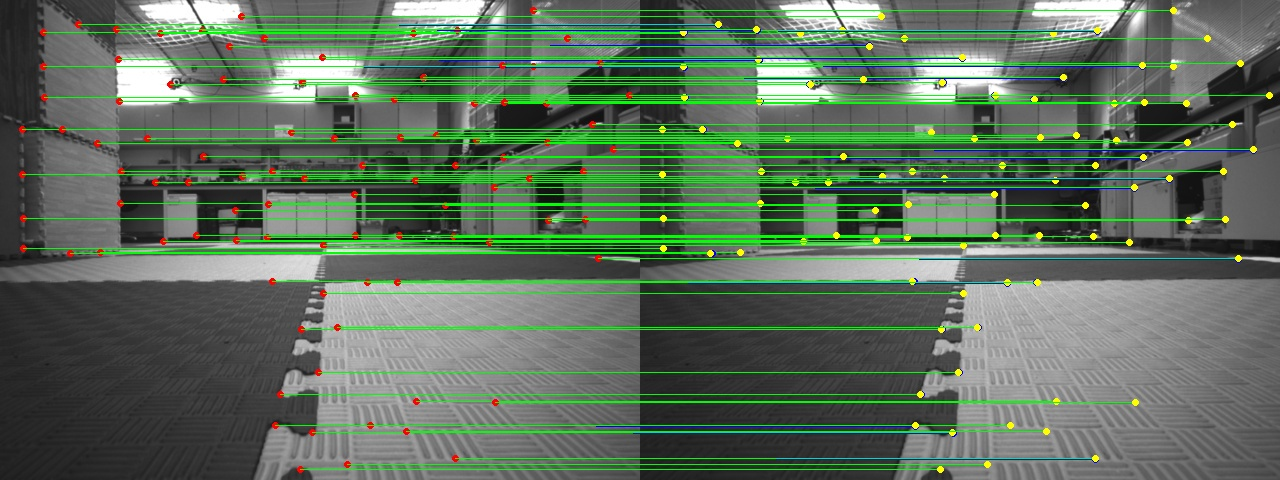
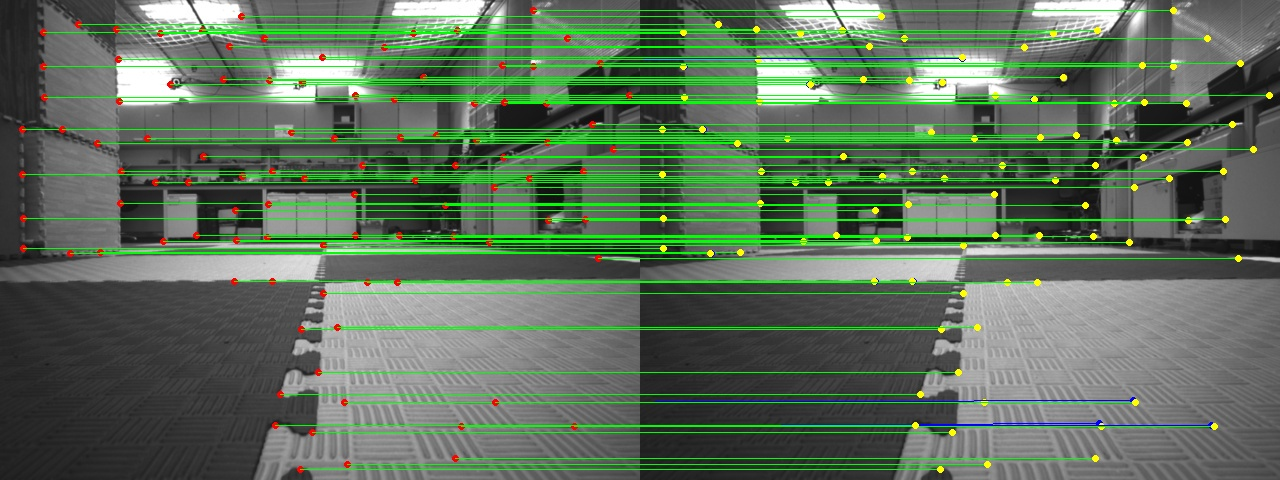
optimize the code

diff --git a/include/optFlowLK.h b/include/optFlowLK.h
@@ -43,7 +43,9 @@ namespace elec5660 {
                 nextPts.push_back(keypoints2i);
                 // compute error
                 if (!inBorder(cv::Point2f(prevPts[i].x - windowSize / 2, prevPts[i].y - windowSize / 2), prevImg.size()) ||
-                    !inBorder(cv::Point2f(prevPts[i].x + windowSize / 2, prevPts[i].y + windowSize / 2), prevImg.size())){
+                    !inBorder(cv::Point2f(prevPts[i].x + windowSize / 2, prevPts[i].y + windowSize / 2), prevImg.size()) ||
+                    !inBorder(cv::Point2f(keypoints2i.x - windowSize / 2, keypoints2i.y - windowSize / 2), nextImg.size()) ||
+                    !inBorder(cv::Point2f(keypoints2i.x + windowSize / 2, keypoints2i.y + windowSize / 2), nextImg.size())){
                     err.push_back(1e10);
                 } else{
                     cv::Mat patch = prevImg(cv::Rect(prevPts[i].x - windowSize / 2, prevPts[i].y - windowSize / 2, windowSize, windowSize));
@@ -51,7 +53,7 @@ namespace elec5660 {
                     cv::Mat patchDiff = patch - patchNext;
                     err.push_back(cv::sqrt(cv::mean(patchDiff.mul(patchDiff))[0]));
                 }
-                if (err[i] < 10.0 && inBorder(keypoints2i, nextImg.size())) {
+                if (err[i] < 10.0) {
                     status.push_back(1);
                 } else {
                     status.push_back(0);
@@ -60,7 +62,7 @@ namespace elec5660 {
         }
 
         double calcPatchDiff(const cv::Mat& prevImg, const cv::Mat& nextImg,
-                           const cv::Point2f& prevPt, const cv::Point2f& nextPt){
+                             const cv::Point2f& prevPt, const cv::Point2f& nextPt){
 
             // 计算光流并绘制跟踪结果
             int windowSize = winSize.width;
@@ -70,8 +72,20 @@ namespace elec5660 {
                 !inBorder(cv::Point2f(nextPt.x + windowSize / 2, nextPt.y + windowSize / 2), nextImg.size())){
                 return 1e10;
             }
-            cv::Mat patch = prevImg(cv::Rect(prevPt.x - windowSize / 2, prevPt.y - windowSize / 2, windowSize, windowSize));
-            cv::Mat patchNext = nextImg(cv::Rect(nextPt.x - windowSize / 2, nextPt.y - windowSize / 2, windowSize, windowSize));
+            cv::Mat patch = cv::Mat::zeros(windowSize, windowSize, CV_32F);
+            for (int v = 0; v < windowSize; v++) {
+                for (int u = 0; u < windowSize; u++) {
+                    patch.at<float>(v, u) = cvMatAt(prevImg, prevPt.x - windowSize / 2 + u, prevPt.y - windowSize / 2 + v);
+                }
+            }
+            cv::Mat patchNext = cv::Mat::zeros(windowSize, windowSize, CV_32F);
+            for (int v = 0; v < windowSize; v++) {
+                for (int u = 0; u < windowSize; u++) {
+                    patchNext.at<float>(v, u) = cvMatAt(nextImg, nextPt.x - windowSize / 2 + u, nextPt.y - windowSize / 2 + v);
+                }
+            }
+            //cv::Mat patch = prevImg(cv::Rect(prevPt.x - windowSize / 2, prevPt.y - windowSize / 2, windowSize, windowSize));
+            //cv::Mat patchNext = nextImg(cv::Rect(nextPt.x - windowSize / 2, nextPt.y - windowSize / 2, windowSize, windowSize));
             cv::Mat patchDiff = patch - patchNext;
             double err = cv::sqrt(cv::mean(patchDiff.mul(patchDiff))[0]);
             return err;
@@ -82,58 +96,65 @@ namespace elec5660 {
             gradXPyr.resize(levels);
             gradYPyr.resize(levels);
             pyramid[0] = src.clone();
-            cv::Sobel(pyramid[0], gradXPyr[0], CV_32F, 1, 0, 3);
-            cv::Sobel(pyramid[0], gradYPyr[0], CV_32F, 0, 1, 3);
+            cv::Mat scharr_kernel_x = (cv::Mat_<float>(3, 3) << -3, 0, 3, -10, 0, 10, -3, 0, 3) / 16.0 / 2.0;
+            cv::Mat scharr_kernel_y = (cv::Mat_<float>(3, 3) << -3, -10, -3, 0, 0, 0, 3, 10, 3) / 16.0 / 2.0;
+            cv::filter2D(pyramid[0], gradXPyr[0], CV_16SC1, scharr_kernel_x);
+            cv::filter2D(pyramid[0], gradYPyr[0], CV_16SC1, scharr_kernel_y);
             for (int i = 1; i < levels; ++i) {
                 cv::pyrDown(pyramid[i - 1], pyramid[i]);
-                cv::Sobel(pyramid[i], gradXPyr[i], CV_32F, 1, 0, 3);
-                cv::Sobel(pyramid[i], gradYPyr[i], CV_32F, 0, 1, 3);
+                cv::filter2D(pyramid[i], gradXPyr[i], CV_16SC1, scharr_kernel_x);
+                cv::filter2D(pyramid[i], gradYPyr[i], CV_16SC1, scharr_kernel_y);
             }
             for (int i = 0; i < levels; ++i) {
-                pyramid[i].convertTo(pyramid[i], CV_32F);
-                gradXPyr[i].convertTo(gradXPyr[i], CV_32F);
-                gradYPyr[i].convertTo(gradYPyr[i], CV_32F);
+                pyramid[i].convertTo(pyramid[i], CV_32FC1);
+                gradXPyr[i].convertTo(gradXPyr[i], CV_32FC1);
+                gradYPyr[i].convertTo(gradYPyr[i], CV_32FC1);
             }
+            //    test scharr
+            //    int u = 100, v = 100;
+            //    cv::Mat patch = pyramid[0](cv::Rect(u - 1, v - 1, 3, 3));
+            //    patch.convertTo(patch, CV_32FC1);
+            //    double sum = cv::sum(patch.mul(scharr_kernel_x))[0] / 16.0 / 2.0;
+            //    std::cout << "sum: " << sum << " gradX: " << gradXPyr[0].at<float>(v, u) << std::endl;
+            //    while (1);
         }
 
         bool inBorder(const cv::Point2f &pt, const cv::Size &size) {
             return pt.x >= 0 && pt.x < size.width && pt.y >= 0 && pt.y < size.height;
         }
 
-        cv::Point2f calcOpticalFlowSingleLevel(const cv::Mat &prev, const cv::Mat &next, const cv::Point2f &point, int windowSize, int level) {
-            int halfWindow = windowSize / 2;
+        cv::Point2f calcOpticalFlowSingleLevel(const cv::Mat &prev, const cv::Mat &next,
+                                               const cv::Point2f &point, const cv::Point2f &pointPred,
+                                               int windowSize, int level) {
+            float halfWindow = (float)windowSize / 2.f;
             if (!inBorder(cv::Point2f(point.x - halfWindow, point.y - halfWindow), prev.size()) ||
-                !inBorder(cv::Point2f(point.x + halfWindow, point.y + halfWindow), prev.size())) {
-                return cv::Point2f(0, 0);
+                !inBorder(cv::Point2f(point.x + halfWindow, point.y + halfWindow), prev.size()) ||
+                !inBorder(cv::Point2f(point.x - halfWindow, point.y - halfWindow), next.size()) ||
+                !inBorder(cv::Point2f(point.x + halfWindow, point.y + halfWindow), next.size())){
+                return cv::Point2f(0.f, 0.f);
             }
-            cv::Mat patch = prev(cv::Rect(point.x - halfWindow, point.y - halfWindow, windowSize, windowSize));
-            cv::Mat patchNext = next(cv::Rect(point.x - halfWindow, point.y - halfWindow, windowSize, windowSize));
-            cv::Mat patchGradX, patchGradY, patchGradXNext, patchGradYNext;
-            patchGradX = prevGradXPyr[level](cv::Rect(point.x - halfWindow, point.y - halfWindow, windowSize, windowSize));
-            patchGradY = prevGradYPyr[level](cv::Rect(point.x - halfWindow, point.y - halfWindow, windowSize, windowSize));
-            patchGradXNext = nextGradXPyr[level](cv::Rect(point.x - halfWindow, point.y - halfWindow, windowSize, windowSize));
-            patchGradYNext = nextGradYPyr[level](cv::Rect(point.x - halfWindow, point.y - halfWindow, windowSize, windowSize));
-            //cv::Sobel(patch, patchGradX, CV_32F, 1, 0, 3);
-            //cv::Sobel(patch, patchGradY, CV_32F, 0, 1, 3);
-            //cv::Sobel(patchNext, patchGradXNext, CV_32F, 1, 0, 3);
-            //cv::Sobel(patchNext, patchGradYNext, CV_32F, 0, 1, 3);
+            cv::Mat patch = prev(cv::Rect(int(point.x - halfWindow), int(point.y - halfWindow), windowSize, windowSize));
+            cv::Mat patchNext = next(cv::Rect(int(pointPred.x - halfWindow), int(pointPred.y - halfWindow), windowSize, windowSize));
+            cv::Mat patchGradX = prevGradXPyr[level](cv::Rect(int(point.x - halfWindow), int(point.y - halfWindow), windowSize, windowSize));
+            cv::Mat patchGradY = prevGradYPyr[level](cv::Rect(int(point.x - halfWindow), int(point.y - halfWindow), windowSize, windowSize));
+            cv::Mat patchGradXNext = nextGradXPyr[level](cv::Rect(int(pointPred.x - halfWindow), int(pointPred.y - halfWindow), windowSize, windowSize));
+            cv::Mat patchGradYNext = nextGradYPyr[level](cv::Rect(int(pointPred.x - halfWindow), int(pointPred.y - halfWindow), windowSize, windowSize));
             Eigen::Matrix2d G = Eigen::Matrix2d::Zero();
             Eigen::Vector2d b = Eigen::Vector2d::Zero();
 
             double weight_sum = 0;
             for (int y = 0; y < patch.rows; ++y) {
                 for (int x = 0; x < patch.cols; ++x) {
-                    float dx = patchGradX.at<float>(y, x);
-                    float dy = patchGradY.at<float>(y, x);
-                    Eigen::Vector2d J(dx, dy);
-                    Eigen::Vector2d JNext(patchGradXNext.at<float>(y, x), patchGradYNext.at<float>(y, x));
+                    Eigen::Vector2d JNext(cvMatAt(patchGradXNext, x, y), cvMatAt(patchGradYNext, x, y));
                     double weight = 1.0;
-                    if (WEIGHTED)
+                    if (WEIGHTED){
+                        Eigen::Vector2d J(patchGradX.at<float>(y, x), patchGradY.at<float>(y, x));
                         weight = 1.0 / ((J - JNext).norm() + 1.0);
-                    G += J * J.transpose() * weight;
+                    }
 
-                    double di = patchNext.at<float>(y, x) - patch.at<float>(y, x);
-                    b = b - di * J * weight;
+                    G += JNext * JNext.transpose() * weight;
+                    double di = cvMatAt(patch, x, y) - cvMatAt(patchNext, x, y);
+                    b = b + di * JNext * weight;
                     weight_sum += weight;
                 }
             }
@@ -143,113 +164,57 @@ namespace elec5660 {
             return cv::Point2f(dp.x(), dp.y());
         }
 
-
-        cv::Point2f calcOpticalFlowSingleLevelAffine(const cv::Mat &prev, const cv::Mat &next, const cv::Point2f &point, int windowSize, int level) {
-            int halfWindow = windowSize / 2;
-            if (!inBorder(cv::Point2f(point.x - halfWindow, point.y - halfWindow), prev.size()) ||
-                !inBorder(cv::Point2f(point.x + halfWindow, point.y + halfWindow), prev.size())) {
-                return cv::Point2f(0, 0);
-            }
-            cv::Mat patch = prev(cv::Rect(point.x - halfWindow, point.y - halfWindow, windowSize, windowSize));
-            cv::Mat patchNext = next(cv::Rect(point.x - halfWindow, point.y - halfWindow, windowSize, windowSize));
-            cv::Mat patchGradX, patchGradY, patchGradXNext, patchGradYNext;
-            patchGradX = prevGradXPyr[level](cv::Rect(point.x - halfWindow, point.y - halfWindow, windowSize, windowSize));
-            patchGradY = prevGradYPyr[level](cv::Rect(point.x - halfWindow, point.y - halfWindow, windowSize, windowSize));
-            patchGradXNext = nextGradXPyr[level](cv::Rect(point.x - halfWindow, point.y - halfWindow, windowSize, windowSize));
-            patchGradYNext = nextGradYPyr[level](cv::Rect(point.x - halfWindow, point.y - halfWindow, windowSize, windowSize));
-            //cv::Sobel(patch, patchGradX, CV_32F, 1, 0, 3);
-            //cv::Sobel(patch, patchGradY, CV_32F, 0, 1, 3);
-            //cv::Sobel(patchNext, patchGradXNext, CV_32F, 1, 0, 3);
-            //cv::Sobel(patchNext, patchGradYNext, CV_32F, 0, 1, 3);
-            Eigen::Matrix<double, 6, 6> G = Eigen::Matrix<double, 6, 6>::Zero();
-            Eigen::Matrix<double, 6, 1> b = Eigen::Matrix<double, 6, 1>::Zero();
-
-            double weight_sum = 0;
-            for (int y = 0; y < patch.rows; ++y) {
-                for (int x = 0; x < patch.cols; ++x) {
-                    float dx = patchGradX.at<float>(y, x);
-                    float dy = patchGradY.at<float>(y, x);
-                    Eigen::Matrix<double, 1, 6> J;
-                    J << x * dx, y * dx, dx, x * dy, y * dy, dy;
-
-                    Eigen::Vector2d grad(patchGradX.at<float>(y, x), patchGradY.at<float>(y, x));
-                    Eigen::Vector2d gradNext(patchGradXNext.at<float>(y, x), patchGradYNext.at<float>(y, x));
-                    double weight = 1.0;
-                    if (WEIGHTED)
-                        weight = 1.0 / ((grad - gradNext).norm() + 1.0);
-                    G += J.transpose() * J * weight;
-
-                    double di = patchNext.at<float>(y, x) - patch.at<float>(y, x);
-                    b = b - di * J.transpose() * weight;
-                    weight_sum += weight;
-                }
-            }
-            G = G / weight_sum;
-            b = b / weight_sum;
-            Eigen::Matrix<double, 6, 1> dp = G.inverse() * b;
-            Eigen::Matrix2d A;
-            A << 1 + dp(0), dp(1), dp(2), 1 + dp(3);
-            Eigen::Vector2d b2(dp(4), dp(5));
-            Eigen::Vector2d displacement = A * Eigen::Vector2d(point.x, point.y) + b2 - Eigen::Vector2d(point.x, point.y);
-            return cv::Point2f(displacement.x(), displacement.y());
-        }
-
         cv::Point2f calcOpticalFlow(const std::vector<cv::Mat> &prevPyramid, const std::vector<cv::Mat> &nextPyramid, const cv::Point2f &point, int windowSize, int levels) {
-            //std::cout << "levels: " << levels << std::endl;
-            // compute initial patch difference on every level
-            for (int level = levels - 1; level >= 0; --level) {
-                cv::Mat prevLevel = prevPyramid[level];
-                cv::Mat nextLevel = nextPyramid[level];
-                cv::Point2f pointOnLevel = point * (1.0 / (1 << level));
-                //std::cout << "prev error: " << calcPatchDiff(prevPyramid[level], nextPyramid[level], pointOnLevel, pointOnLevel) << ", level: " << level << std::endl;
-            }
-
             cv::Point2f displacement(0, 0);
             for (int level = levels - 1; level >= 0; --level) {
-                cv::Point2f pointOnLevel = (point + displacement) * (1.0 / (1 << level));
                 cv::Mat prevLevel = prevPyramid[level];
                 cv::Mat nextLevel = nextPyramid[level];
 
-                cv::Point2f displacementOnLevel(0, 0);
-                cv::Point2f displacementOnLevelTmp(0, 0);
-                cv::Point2f pointOnLevelOrig = point * (1.0 / (1 << level));
-                double last_error = calcPatchDiff(prevPyramid[level], nextPyramid[level], pointOnLevelOrig, pointOnLevel);
+                cv::Point2f pointOnLevel = point * (1.0 / (1 << level));
+                cv::Point2f pointOnLevelPred = (point + displacement) * (1.0 / (1 << level));
+                double error_org = calcPatchDiff(prevPyramid[level], nextPyramid[level], pointOnLevel, pointOnLevel);
                 for (int iter = 0; iter < 10; ++iter) {
-                    cv::Point2f pointOnLevelInNext = pointOnLevel + displacementOnLevel;
                     cv::Point2f flowOnLevel;
-                    if (AFFINE)
-                        flowOnLevel = calcOpticalFlowSingleLevelAffine(prevLevel, nextLevel, pointOnLevelInNext, windowSize, level);
-                    else
-                        flowOnLevel = calcOpticalFlowSingleLevel(prevLevel, nextLevel, pointOnLevelInNext, windowSize, level);
-                    double updated_error = calcPatchDiff(prevPyramid[level], nextPyramid[level], pointOnLevelOrig, pointOnLevelInNext + flowOnLevel);
-                    //std::cout << "iter: " << iter << " level: " << level << " last_error: " << last_error << " updated_error: " << updated_error << std::endl;
-                    if (updated_error > last_error + 1e-3) {
-                        displacementOnLevel -= displacementOnLevelTmp;
+                    flowOnLevel = calcOpticalFlowSingleLevel(prevLevel, nextLevel, pointOnLevel, pointOnLevelPred, windowSize, level);
+                    pointOnLevelPred = pointOnLevelPred + flowOnLevel;
+                    double updated_error = calcPatchDiff(prevPyramid[level], nextPyramid[level], pointOnLevel, pointOnLevelPred);
+                    if (updated_error > error_org + 1e-3) {
+                        pointOnLevelPred = pointOnLevelPred - flowOnLevel;
                         break;
-                    } else if (updated_error < last_error - 1e-3) {
-                        displacementOnLevelTmp = cv::Point2f(0, 0);
-                    } else {
-                        displacementOnLevelTmp += flowOnLevel;
                     }
-                    last_error = updated_error;
-                    displacementOnLevel += flowOnLevel;
+                    error_org = updated_error;
                 }
-                //std::cout << "level: " << level << " displacement: " << displacementOnLevel << std::endl;
-                displacement += displacementOnLevel * (1 << level);
+                displacement = (pointOnLevelPred - pointOnLevel) * (1 << level);
             }
-            //std::cout << "final error: " << calcPatchDiff(prevPyramid[0], nextPyramid[0], point, point + displacement) << std::endl;
-            //std::cout << "final displacement: " << displacement << std::endl;
             return displacement;
         }
-        
+
+        float cvMatAt(const cv::Mat &mat, float u, float v) {
+            //return mat.at<float>(v, u);
+            //    bilinear interpolation
+            int x = floor(u);
+            int y = floor(v);
+            float dx = u - x;
+            float dy = v - y;
+            float value = mat.at<float>(y, x);
+            if (x >= 0 && x < mat.cols - 1 && y >= 0 && y < mat.rows - 1) {
+                value = (1 - dx) * (1 - dy) * mat.at<float>(y, x) +
+                        dx * (1 - dy) * mat.at<float>(y, x + 1) +
+                        (1 - dx) * dy * mat.at<float>(y + 1, x) +
+                        dx * dy * mat.at<float>(y + 1, x + 1);
+            } else {
+                value = 0;
+            }
+            return value;
+        }
     };
 
     inline void calcOpticalFlowPyrLK(const cv::Mat& prevImg, const cv::Mat& nextImg,
-                              const std::vector<cv::Point2f>& prevPts, std::vector<cv::Point2f>& nextPts,
-                              std::vector<uchar>& status, std::vector<float>& err,
-                              cv::Size winSize = cv::Size(21, 21), int maxLevel = 3,
-                              cv::TermCriteria criteria = cv::TermCriteria(cv::TermCriteria::COUNT + cv::TermCriteria::EPS, 30, 0.01),
-                              int flags = 0, double minEigThreshold = 1e-4){
+                                     const std::vector<cv::Point2f>& prevPts, std::vector<cv::Point2f>& nextPts,
+                                     std::vector<uchar>& status, std::vector<float>& err,
+                                     cv::Size winSize = cv::Size(21, 21), int maxLevel = 3,
+                                     cv::TermCriteria criteria = cv::TermCriteria(cv::TermCriteria::COUNT + cv::TermCriteria::EPS, 30, 0.01),
+                                     int flags = 0, double minEigThreshold = 1e-4){
         OptFlowLK optFlowLK(winSize, MAX_LEVEL, criteria, flags, minEigThreshold);
         optFlowLK.calc(prevImg, nextImg, prevPts, nextPts, status, err);
     }

diff --git a/node/optlk_benchmark.cpp b/node/optlk_benchmark.cpp
@@ -10,19 +10,18 @@
 #include "global_defination/global_defination.h"
 
 int main() {
-    // 加载两个连续的图像帧
     readParameters(cmake_template::WORK_SPACE_PATH+"/config/realsense_n3_unsync.yaml");
     std::string dir = cmake_template::WORK_SPACE_PATH+"/data/";
     std::string img1_path = dir + "frame" + padding(0, 4) + ".jpg";
     std::string img2_path = dir + "frame" + padding(10, 4) + ".jpg";
     cv::Mat img1 = cv::imread(img1_path);
     cv::Mat img2 = cv::imread(img2_path);
-    // 转换为灰度
+    // convert to gray image
     cv::Mat gray1, gray2;
     cv::cvtColor(img1, gray1, cv::COLOR_BGR2GRAY);
     cv::cvtColor(img2, gray2, cv::COLOR_BGR2GRAY);
 
-    // 使用Shi-Tomasi角点检测器检测关键点
+    // detect features
     std::vector<cv::Point2f> keypoints1;
     int maxCorners = MAX_CNT;
     double qualityLevel = 0.01;

diff --git a/src/parameters.cpp b/src/parameters.cpp
@@ -4,7 +4,6 @@ int MAX_CNT;
 int MIN_DIST;
 int FLOW_BACK;
 int SHOW_FEATURE;
-double F_THRESHOLD;
 bool AFFINE = false;
 bool WEIGHTED = false;
 int MAX_LEVEL = 3;
@@ -34,7 +33,6 @@ void readParameters(std::string config_file) {
 
     SHOW_FEATURE = fsSettings["show_feature"];
     FLOW_BACK = fsSettings["flow_back"];
-    F_THRESHOLD = fsSettings["F_threshold"];
 
     printf("Tracking parameters: \n");
     printf("USE_OPENCV: %d\n", USE_OPENCV);
@@ -46,8 +44,8 @@ void readParameters(std::string config_file) {
 
     printf("VO parameters: \n");
     printf("FLOW BACK: %d\n", FLOW_BACK);
+    printf("D_THRESHOLD: %f\n", D_THRESHOLD);
     printf("SHOW FEATURE: %d\n", SHOW_FEATURE);
-    printf("F THRESHOLD: %f\n", F_THRESHOLD);
 
     fsSettings.release();
 }

diff --git a/include/parameters.h b/include/parameters.h
@@ -10,7 +10,6 @@ extern int MAX_CNT;
 extern int MIN_DIST;
 extern int SHOW_FEATURE;
 extern int FLOW_BACK;
-extern double F_THRESHOLD;
 extern bool AFFINE;
 extern bool WEIGHTED;
 extern int MAX_LEVEL;

diff --git a/README.md b/README.md
@@ -8,7 +8,7 @@ Note: this experiment is done on a video which is not included in this repo. In 
 
 For our test demo, we use the following result:
 ```angular2html
-frame id: 0, precision: 100%, recall: 81.8966%, f1: 90.0474%, time: 14.1243ms, time_opencv: 0.771994ms
+frame id: 0, precision: 96.9388%, recall: 81.8966%, f1: 88.785%, time: 12.1133ms, time_opencv: 0.590632ms
 ```
 
 ![Experiment](data/demo.jpg)
@@ -25,5 +25,5 @@ make
 
 ## TODO
 If you have any interest in this project, you can try to implement the following features:
-- [ ] Improve the affine matrix estimation
-- [ ] Implement the multi-thread version
+- [ ] Implement the affine matrix estimation
+- [ ] Implement the multi-thread version to speed up the process
